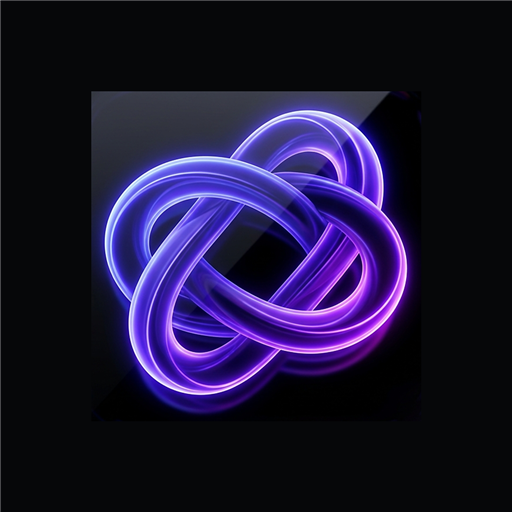
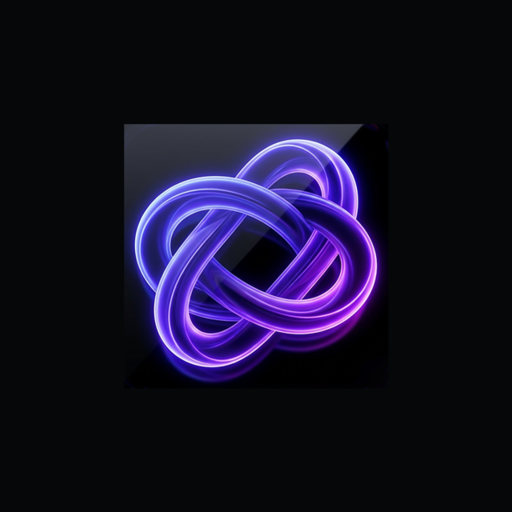
fix(overlay): 장시간 시청/PIP 오버레이 소실 + 세션 재소환 버그 수정 + 앱 아이콘 패딩
**오버레이 알약 표시 로직 — 실기기 재현으로 확정한 진짜 원인**: YouTube Shorts는 영상이
바뀌어도 같은 Activity 안에서 콘텐츠만 바뀌지 새 화면 전환 자체가 없다. 그래서 한 화면에
5분(ForegroundAppWatcher.STALENESS_MS) 넘게 머물면 접근성 이벤트(TYPE_WINDOW_STATE_CHANGED)와
UsageStatsManager 둘 다 "새 전환 없음"에 빠져 오버레이가 사라진다 — dumpsys usagestats로
YouTube의 lastTimeUsed가 7분 넘게 안 갱신되는데도 실제로는 계속 포그라운드였음을 직접 확인.
시간 차감 자체는 별도 메커니즘(재생시간 텍스트 폴링)이라 이 버그와 무관하게 항상 정확했음.
- PaceAccessibilityService.supportedAppWindowVisible() 신설 — getWindows()는 이벤트가 아니라
  그 순간을 직접 묻는 쿼리라 이 문제 자체가 없다(PIP 창도 이 목록에 잡혀 자동으로 포함).
  isLikelyPlaying()과 PaceOverlayService의 shouldShow 판정 양쪽에 최후 순위 신호로 추가.

**P메뉴 "앱으로" 직후 세션이 끊기는 레이스**: pace://home 딥링크로 Pace가 다시 포그라운드로
올 때, "화면만 전환·세션은 유지" JS 가드(keepSessionAliveOnUnmountRef)가 세워지기 전에
세션 종료가 먼저 실행되는 경합이 실기기로 재현됨(딥링크 발사 170ms 뒤 ACTION_STOP 수신).
JS 쪽 경합 지점 대신 네이티브에 최후 방어선 추가 — openApp() 직후 3초 안에 들어오는 STOP은
그 화면 전환의 부작용으로 간주해 무시(PaceOverlayService.lastOpenAppAtMs/OPEN_APP_STOP_GRACE_MS).

**블루투스/미디어 "Next Short" 토스트가 시청 중이 아닐 때도 뜸**: triggerNext/triggerPrevious가
포그라운드 확인 없이 무조건 스와이프+토스트를 냈다 — 위 supportedAppWindowVisible()로 게이팅해
실제로 감시 대상 앱을 보고 있을 때만 동작하도록 수정(손짓/핑거스냅 등 triggerNext를 거치는 모든
경로에 공통 적용됨).

**세션 재소환이 새 세션처럼 보이는 버그**: 이미 running인 세션에서 플랫폼 카드를 다시 탭하면
launchPlatformApp()(딥링크 URL)을 재사용했는데, 이게 항상 특정 화면(Shorts 새 진입 또는 YouTube
기본 홈 탭)으로 내비게이션시켜 PIP로 줄어있던 기존 화면을 복원하지 못했다 — 어떤 URL을 써도
딥링크는 "특정 화면으로 이동"이지 "그냥 태스크를 앞으로 가져오기"가 아니라서 구조적으로 못 피함.
PaceOverlayModule.resumeThirdPartyApp()(getLaunchIntentForPackage+REORDER_TO_FRONT, 런처 아이콘을
[…]

Changed region(s): [[0.1562, 0.1562, 0.8125, 0.8125], [0.0, 0.0, 0.0312, 0.0312]]

diff --git a/modules/pace-overlay/android/src/main/java/expo/modules/paceoverlay/PaceOverlayService.kt b/modules/pace-overlay/android/src/main/java/expo/modules/paceoverlay/PaceOverlayService.kt
@@ -202,6 +202,16 @@ class PaceOverlayService : Service() {
   // 이 프로세스 인스턴스에서 인프라(오버레이 창/폴링/미디어세션/포그라운드 알림)를 이미 세팅했는지 —
   // ACTION_TICK이 "정상 진행 중 틱"인지 "프로세스가 죽었다 알람으로 되살아난 첫 틱"인지 구분하는 용도.
   private var infraReady = false
+  // 2026-08-01 실기기 재현(사용자: "P에서 앱으로 눌렀는데 세션이 왜 꺼짐") — openApp()의 pace://home
+  // 딥링크로 Pace가 다시 포그라운드로 오면, JS의 "화면만 전환, 세션은 유지" 가드(overlay/index.tsx의
+  // keepSessionAliveOnUnmountRef)가 AppState 'active' 리스너로 세워지는데, 이게 Expo Router의 자체
+  // 딥링크 URL 처리(별도 이벤트 스트림)보다 늦게 도착하는 경합이 실기기에서 실제로 재현됨(로그로
+  // 확인: openApp() 딥링크 발사 170ms 뒤 ACTION_STOP 수신) — 가드가 세워지기 전에 화면이 언마운트돼
+  // "진짜 종료"로 오판했다. JS 쪽 정확한 경합 지점을 특정해 고치는 대신, 더 확실한 네이티브 쪽
+  // 최후 방어선을 둔다: openApp() 직후 짧은 유예시간 안에 들어오는 STOP은 "방금 내가 유발한 화면
+  // 전환의 부작용"으로 간주해 무시한다(진짜로 세션을 끝내고 싶으면 이 유예시간 이후 다시 시도하면
+  // 되고, 앱으로 이동 직후 3초 안에 실제로 세션 종료 버튼까지 누르는 경우는 실사용상 사실상 없다).
+  private var lastOpenAppAtMs = 0L
 
   // 수면 감지 강제 종료 파이프라인(스펙 §1-B/§4-B, 2026-07-23) — "누운 자세로 보다가 잠듦"을
   // "무진동 N분 지속"으로 근사. 실제 수면감지 앱(Sleep as Android 등) 공개 자료 기준 순수 무진동
@@ -578,6 +588,8 @@ class PaceOverlayService : Service() {
     private const val ACTION_START = "expo.modules.paceoverlay.START"
     private const val ACTION_UPDATE = "expo.modules.paceoverlay.UPDATE"
     private const val ACTION_STOP = "expo.modules.paceoverlay.STOP"
+    // openApp() 직후 이 시간 안에 들어오는 STOP은 무시 — 위 lastOpenAppAtMs 필드 주석 참고.
+    private const val OPEN_APP_STOP_GRACE_MS = 3_000L
     const val ACTION_TICK = "expo.modules.paceoverlay.TICK"
     private const val EXTRA_REMAINING = "remainingMinutes"
     private const val EXTRA_AUTO_NEXT = "autoNextEnabled"
@@ -700,13 +712,22 @@ class PaceOverlayService : Service() {
       instance?.lastMotionAtMs = SystemClock.elapsedRealtime()
     }
 
+    // 2026-08-01 사용자 실기기 지적("숏츠 보는 중도 아닌데 왜 Next Short 토스트가 뜨냐") — 원래
+    // "블루투스/미디어 next 신호 자체가 이미 숏폼을 보고 있다는 강한 증거"라는 가정으로 포그라운드
+    // 확인 없이 무조건 스와이프+토스트를 냈다(onSkipToNext 주석 참고). 그 가정이 깨지는 경우(연결된
+    // 기기의 의도치 않은 신호, 세션은 켜져 있지만 사용자가 Pace 홈 등 다른 화면을 보는 중 등)엔 실제로
+    // 아무것도 넘길 게 없는데 토스트만 떠서 혼란을 준다 — 오늘 오버레이 표시 여부 수정에 쓴 것과 같은
+    // 신뢰할 수 있는 신호(isSupportedAppWindowVisible, getWindows() 기반)로 실제로 감시 대상 앱을
+    // 보고 있을 때만 동작하도록 게이팅한다.
     fun triggerNext(context: Context) {
+      if (!PaceAccessibilityService.isSupportedAppWindowVisible()) return
       PaceAccessibilityService.swipeOnce(up = true)
       bumpBluetoothCounter(context, "bt_next_count")
       showToast(context, "⏭ Next Short")
     }
 
     fun triggerPrevious(context: Context) {
+      if (!PaceAccessibilityService.isSupportedAppWindowVisible()) return
       PaceAccessibilityService.swipeOnce(up = false)
       bumpBluetoothCounter(context, "bt_previous_count")
       showToast(context, "⏮ Previous Short")
@@ -1134,6 +1155,14 @@ class PaceOverlayService : Service() {
         if (infraReady) persistState()
       }
       ACTION_STOP -> {
+        // 2026-08-01 실기기 재현 — openApp()("P메뉴 → 앱으로") 직후 짧은 유예시간(OPEN_APP_STOP_GRACE_MS)
+        // 안에 들어오는 STOP은 그 화면 전환이 유발한 JS 레이스의 부작용으로 간주해 무시한다. 위
+        // lastOpenAppAtMs 필드 선언부 주석 참고 — 실제로 세션 종료 버튼을 그 안에 또 누르는 경우는
+        // 실사용상 없다고 봐도 되는 극히 좁은 창.
+        if (lastOpenAppAtMs != 0L && SystemClock.elapsedRealtime() - lastOpenAppAtMs < OPEN_APP_STOP_GRACE_MS) {
+          Log.w("PaceOverlay", "ACTION_STOP ignored — arrived within ${OPEN_APP_STOP_GRACE_MS}ms of openApp() (likely JS unmount race, not a real end)")
+          return START_STICKY
+        }
         clearSessionActive()
         cancelScheduledTick(this)
         stopForegroundAppPolling()
@@ -1488,6 +1517,7 @@ class PaceOverlayService : Service() {
   // 대신 pace://home 딥링크로 명시적으로 Home을 지정한다 — Expo Router의 기본 링킹 리스너가
   // 이미 떠 있는 액티비티(singleTask → onNewIntent)에도 이 URL을 항상 홈 라우트로 매칭해준다.
   private fun openApp() {
+    lastOpenAppAtMs = SystemClock.elapsedRealtime()
     val intent = Intent(Intent.ACTION_VIEW, Uri.parse("pace://home")).apply {
       // FLAG_ACTIVITY_NO_USER_ACTION — 실기기 발견(2026-07-31): 이 플래그 없이 유튜브를 백그라운드로
       // 보내면 유튜브가 onUserLeaveHint()를 "사용자가 홈으로 나감"으로 오인해 자동으로 PIP(작은

diff --git a/src/constants/supportedApps.ts b/src/constants/supportedApps.ts
@@ -63,3 +63,27 @@ export async function launchPlatformApp(platform: AppShieldTarget | undefined) {
     await Linking.openURL(second).catch(() => {});
   }
 }
+
+// 2026-08-01 사용자 실기기 지적("작아진 화면을 다시 키워야지 왜 전체화면에 새 쇼츠/유튜브 홈이
+// 보여") — 세션이 이미 running인데 플랫폼 카드를 다시 탭하면(home.tsx) 세션을 새로 시작하지 않고
+// 앱만 다시 앞으로 가져오면 되는데, 이 목적에도 launchPlatformApp()을 그대로 썼다. 근데 그 함수의
+// webFallback(예: YouTube `www.youtube.com/shorts`)은 매번 "새 Shorts 진입" URL을 쏴 PIP로 줄어있던
+// 기존 화면 대신 새 피드를 열었다. **1차 시도**로 androidScheme(순수 스킴, 예: `vnd.youtube://`)로
+// 바꿔봤으나 실기기 재현 결과 이것도 틀렸다 — YouTube가 이 스킴을 "기본 진입점(홈 탭)"으로 매핑해
+// 놔서 Shorts도 기존 PIP 화면도 아닌 YouTube 홈이 열렸다(딥링크는 결국 URL의 intent-filter가 매핑된
+// 특정 화면으로 내비게이션하는 것이지 "그냥 태스크를 앞으로 가져오기"가 아니다 — 어떤 URL을 골라도
+// 이 문제 자체는 못 피함). **최종 수정**: 딥링크를 아예 안 쓰고 네이티브
+// getLaunchIntentForPackage+REORDER_TO_FRONT(PaceOverlayModule.resumeThirdPartyApp, 런처 아이콘을
+// 다시 탭한 것과 완전히 동일한 방식)로 기존 태스크를 그 상태 그대로 앞으로 가져온다.
+export async function resumePlatformApp(platform: AppShieldTarget | undefined) {
+  if (Platform.OS !== 'android' || !platform) return;
+  const app = SUPPORTED_APPS[platform as keyof typeof SUPPORTED_APPS];
+  if (!app) return;
+  try {
+    const { PaceOverlay } = require('../../modules/pace-overlay');
+    PaceOverlay?.resumeThirdPartyApp(app.packageNames[0]);
+  } catch {
+    // 네이티브 미링크(Dev Client 빌드 전) — 조용히 무시, 최후 폴백으로 기존 방식 시도.
+    await Linking.openURL(app.androidScheme).catch(() => {});
+  }
+}

diff --git a/src/app/(tabs)/home.tsx b/src/app/(tabs)/home.tsx
@@ -29,7 +29,7 @@ import { STORAGE_KEYS } from '../../services/storage/keys';
 import { bluetoothService, capabilities, overlayService } from '../../services/platform';
 import { useAdBannerStore } from '../../store/useAdBannerStore';
 import { useTranslation } from '../../services/i18n';
-import { launchPlatformApp } from '../../constants/supportedApps';
+import { launchPlatformApp, resumePlatformApp } from '../../constants/supportedApps';
 import { colors, radius, spacing, typography } from '../../constants/theme';
 import type { AppShieldTarget } from '../../types/models';
 import type { ShortFormApp } from '../../constants/apps';
@@ -307,8 +307,12 @@ export default function HomeScreen() {
     // 리다이렉트로 Home에 돌아온 뒤 재탭 등) startSession이 새 viewing_sessions 행을 또 만들어, 나중에
     // 둘 다 같은 종료시각으로 닫히며 겹치는 구간이 이중집계됐다. 이미 running이면 새 세션/네이티브
     // 서비스를 다시 시작하지 않고 해당 앱만 전면으로 다시 띄운다(세션·오버레이는 그대로 유지).
+    // 2026-08-01 사용자 지적("작아진 화면 다시 키워야지 왜 새 쇼츠가 보여") — 여기서도
+    // launchPlatformApp을 썼었는데, 그 함수는 매번 "새 Shorts 진입" URL을 열어서 PIP로 줄어있던
+    // 기존 화면 대신 새 피드가 열렸다. 재소환 전용 resumePlatformApp(순수 스킴, 특정 화면 강제 없음)
+    // 으로 교체 — supportedApps.ts 주석 참고.
     if (useSessionStore.getState().status === 'running') {
-      launchPlatformApp(platform).catch(() => {});
+      resumePlatformApp(platform).catch(() => {});
       return;
     }
     AsyncStorage.getItem(STORAGE_KEYS.bluetoothOnboardingSeen).then((seen) => {

diff --git a/modules/pace-overlay/android/src/main/java/expo/modules/paceoverlay/PaceOverlayModule.kt b/modules/pace-overlay/android/src/main/java/expo/modules/paceoverlay/PaceOverlayModule.kt
@@ -448,6 +448,25 @@ class PaceOverlayModule : Module() {
       }
     }
 
+    // 2026-08-01 사용자 실기기 지적("작아진 화면 다시 키워야지 왜 새 쇼츠/홈이 보여") — 이미 실행
+    // 중인 세션을 재소환할 때 Linking.openURL(딥링크/URL)로는 항상 그 URL의 intent-filter가 매핑된
+    // 특정 화면(Shorts 새 진입, 또는 YouTube 기본 홈 탭)으로 새로 내비게이션돼버려서, PIP로 줄어있던
+    // 기존 화면을 그대로 복원하지 못했다(웹 URL판/순수 스킴판 둘 다 실기기로 확인, supportedApps.ts
+    // resumePlatformApp 주석 참고). 딥링크가 아니라 getLaunchIntentForPackage+REORDER_TO_FRONT로
+    // "런처 아이콘을 다시 탭한 것"과 동일하게 기존 태스크를 그 상태 그대로 앞으로 가져온다 — 이건
+    // openApp()의 기존 폴백 경로와 같은 패턴(그쪽은 Pace 자신, 이건 YouTube 등 제3자 앱 대상).
+    Function("resumeThirdPartyApp") { packageName: String ->
+      appContext.reactContext?.let { context ->
+        try {
+          val intent = context.packageManager.getLaunchIntentForPackage(packageName)
+          intent?.addFlags(Intent.FLAG_ACTIVITY_NEW_TASK or Intent.FLAG_ACTIVITY_REORDER_TO_FRONT)
+          intent?.let { context.startActivity(it) }
+        } catch (e: Exception) {
+          Log.w("PaceOverlayModule", "resumeThirdPartyApp($packageName) failed", e)
+        }
+      }
+    }
+
     Function("cacheAuthToken") { token: String ->
       appContext.reactContext?.let { context ->
         context.getSharedPreferences(PaceOverlayService.PREFS_NAME, Context.MODE_PRIVATE)

diff --git a/modules/pace-overlay/index.ts b/modules/pace-overlay/index.ts
@@ -68,6 +68,12 @@ type PaceOverlayNativeModule = {
   // (둘 다 네이티브에서 직접 setAutoMode를 부름)을 못 막았다. 앱 부팅 시 1회 호출해 네이티브 쪽
   // 게이트를 실제 값으로 맞춘다(PaceOverlayService.setBuildAutoNextEnabled 참고).
   setBuildAutoNextEnabled(enabled: boolean): void;
+  // 2026-08-01 — 이미 실행 중인 세션에서 플랫폼 카드를 다시 탭했을 때 쓰는 재소환 전용 경로.
+  // Linking.openURL(딥링크)는 항상 특정 intent-filter 화면으로 새로 내비게이션시켜 PIP 등으로
+  // 줄어있던 기존 화면을 복원 못 한다 — getLaunchIntentForPackage+REORDER_TO_FRONT로 런처 아이콘을
+  // 다시 탭한 것과 동일하게 기존 태스크를 그 상태 그대로 앞으로 가져온다(constants/supportedApps.ts
+  // resumePlatformApp 참고).
+  resumeThirdPartyApp(packageName: string): void;
 };
 
 export const PaceOverlay = requireNativeModule<PaceOverlayNativeModule>('PaceOverlay');
